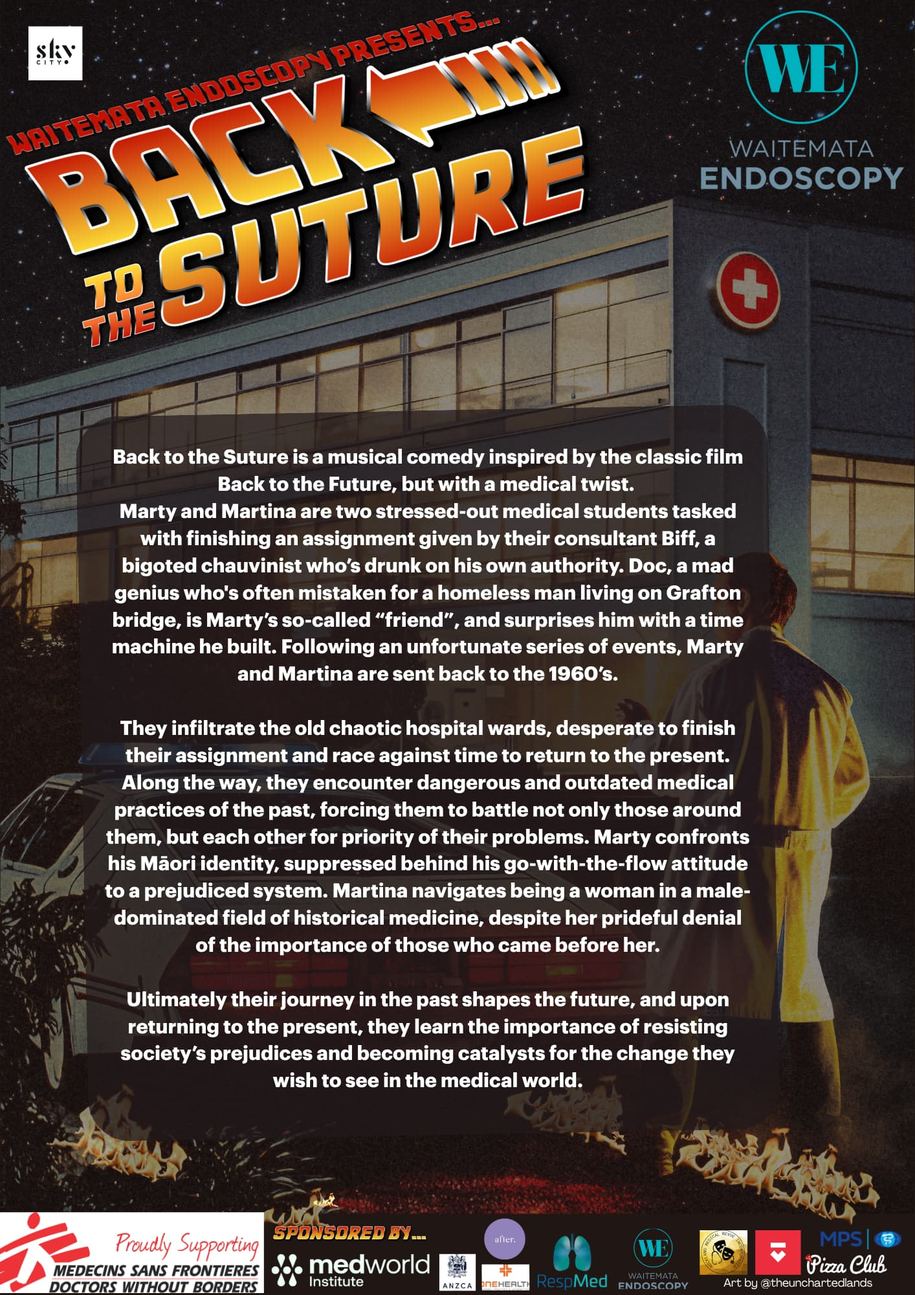
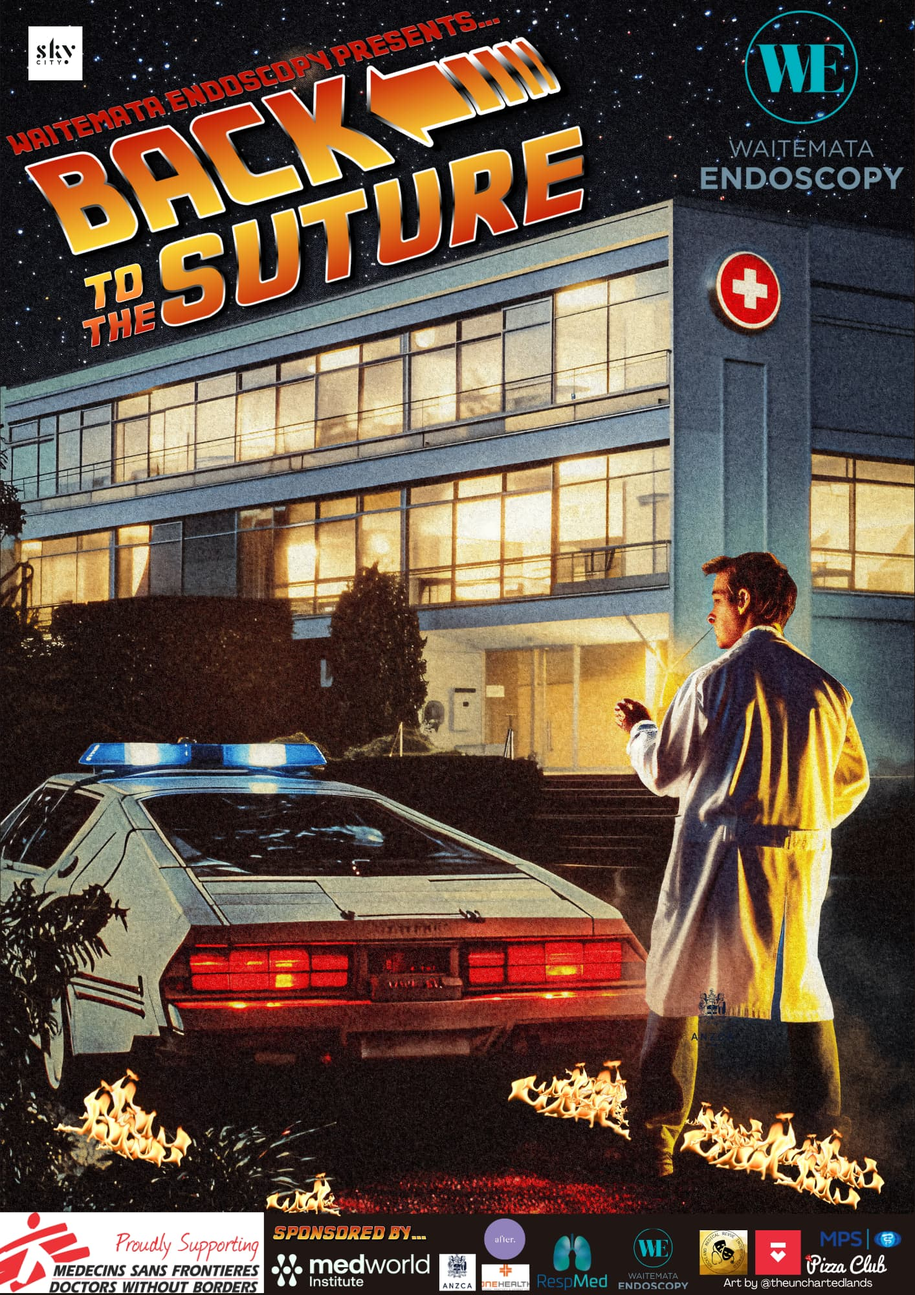
feat: update gallery with real show posters

diff --git a/packages/frontend/src/components/CardStack/CardStack.tsx b/packages/frontend/src/components/CardStack/CardStack.tsx
@@ -3,30 +3,38 @@ import { ScrollTrigger } from 'gsap/ScrollTrigger';
 import { useEffect, useRef } from 'react'; // Ensure it only runs after the DOM is created
 import PastShowCard, { type PastShowCardProps } from '../Cards/PastShowCard';
 
+import gallery2023_1 from '../../assets/gallery-2023-1.png';
+import gallery2023_2 from '../../assets/gallery-2023-2.png';
+import gallery2023_3 from '../../assets/gallery-2023-3.png';
+import gallery2024_1 from '../../assets/gallery-2024-1.png';
+import gallery2024_2 from '../../assets/gallery-2024-2.png';
+import gallery2024_3 from '../../assets/gallery-2024-3.png';
 import gallery2025_2 from '../../assets/medrevue-home-castBlue.png';
 import gallery2025_1 from '../../assets/medrevue-home-castPink.png';
-import poster2025 from '../../assets/medrevue-poster.jpg';
+import poster2023 from '../../assets/medrevue-poster-2023.png';
+import poster2024 from '../../assets/medrevue-poster-2024.png';
+import poster2025 from '../../assets/medrevue-poster-2025.jpg';
 
 gsap.registerPlugin(ScrollTrigger);
 
 const cards: PastShowCardProps[] = [
   {
-    year: '2024',
-    title: 'Grease',
+    year: '2025',
+    title: 'Back to the Suture',
     posterUrl: poster2025,
     galleryUrls: [gallery2025_1, gallery2025_2, 'placeholder3.png'],
   },
   {
-    year: '2023',
-    title: 'Wicked',
-    posterUrl: 'bye',
-    galleryUrls: ['placeholder1.png', 'placeholder2.png', 'placeholder3.png'],
+    year: '2024',
+    title: 'Mean Docs',
+    posterUrl: poster2024,
+    galleryUrls: [gallery2024_1, gallery2024_2, gallery2024_3],
   },
   {
-    year: '2022',
-    title: 'Hamilton',
-    posterUrl: 'goodnight',
-    galleryUrls: ['placeholder1.png', 'placeholder2.png', 'placeholder3.png'],
+    year: '2023',
+    title: 'Medtilda',
+    posterUrl: poster2023,
+    galleryUrls: [gallery2023_1, gallery2023_2, gallery2023_3],
   },
 ];
 

diff --git a/packages/frontend/src/components/Cards/PastShowCard/PastShowCard.tsx b/packages/frontend/src/components/Cards/PastShowCard/PastShowCard.tsx
@@ -13,7 +13,7 @@ export const PastShowCard: React.FC<PastShowCardProps> = ({
   posterUrl,
   galleryUrls,
 }) => {
-  const visibleImages = galleryUrls.slice(0, 2);
+  const visibleImages = galleryUrls.slice(0, 3);
 
   return (
     <div className="card absolute w-full md:max-w-[720px] lg:max-w-[1000px] xl:max-w-[1200px] mx-auto">
@@ -107,22 +107,6 @@ export const PastShowCard: React.FC<PastShowCardProps> = ({
                     />
                   </div>
                 ))}
-
-                {/* View more tile */}
-                <div
-                  className="rounded-lg flex-shrink-0 flex items-end justify-left cursor-pointer
-                     bg-text-grey border border-text-grey
-                     hover:bg-text-grey transition-colors duration-200
-                     w-20 h-20 md:w-28 md:h-28 lg:w-36 lg:h-36 xl:w-44 xl:h-44"
-                >
-                  <span className="m-2 lg:m-5 leading-tight text-[0.6rem] md:text-[0.7rem] lg:text-[0.9rem] text-background-secondary">
-                    <>
-                      View
-                      <br />
-                      more...
-                    </>
-                  </span>
-                </div>
               </div>
             </div>
           </div>

diff --git a/packages/frontend/src/App.tsx b/packages/frontend/src/App.tsx
@@ -7,7 +7,7 @@ import { ContactPage } from './pages/ContactUs';
 import HomePage from './pages/Home';
 import ReturnPolicyPage from './pages/ReturnPolicy';
 import { SponsorPage } from './pages/SponsorPage';
-import PastShowsPage from './pages/past_shows/PastShowsPage';
+import GalleryPage from './pages/gallery/GalleryPage';
 import Show2025 from './pages/show/2025show';
 
 const App: React.FC = () => {
@@ -32,15 +32,6 @@ const App: React.FC = () => {
               <Menu />
               {/* <LoadingComponent /> */}
               <Show2025 />
-            </>
-          }
-        />
-        <Route
-          path="gallery"
-          element={
-            <>
-              <Menu />
-              <h1>Gallery</h1>
             </>
           }
         />
@@ -72,11 +63,11 @@ const App: React.FC = () => {
           }
         />
         <Route
-          path="/past_shows"
+          path="/gallery"
           element={
             <>
               <Menu />
-              <PastShowsPage />
+              <GalleryPage />
             </>
           }
         />

diff --git a/packages/frontend/src/components/Menu/Menu.tsx b/packages/frontend/src/components/Menu/Menu.tsx
@@ -73,18 +73,11 @@ export const Menu: React.FC = () => {
         <Link to="/" className="menu-nav-link">
           Home
         </Link>
-        <Link to="/show" className="menu-nav-link">
-          2026 Show
+        <Link to="/gallery" className="menu-nav-link">
+          Gallery
         </Link>
         <Link to="/contact" className="menu-nav-link">
           Contact
-        </Link>
-        {/*link past shows page - test*/}
-        <Link
-          to="/past_shows"
-          className="font-inter text-xl font-bold leading-[36px] text-[#cccccc] no-underline transition-colors duration-300 hover:text-[#e5ce63]"
-        >
-          Past Shows
         </Link>
         <a
           href="https://donate.mentalhealth.org.nz"

diff --git a/packages/frontend/src/components/Home/HeroSection/HeroSection.tsx b/packages/frontend/src/components/Home/HeroSection/HeroSection.tsx
@@ -3,7 +3,7 @@ import { ScrollTrigger } from 'gsap/ScrollTrigger';
 import type React from 'react';
 import { useEffect, useRef } from 'react';
 import { useNavigate } from 'react-router';
-import medrevuePoster from '../../../assets/medrevue_poster.png';
+import medrevuePoster from '../../../assets/medrevue-poster-2026.png';
 import { Button } from '../../Button';
 
 gsap.registerPlugin(ScrollTrigger);

diff --git a/packages/frontend/src/pages/gallery/GalleryPage.tsx b/packages/frontend/src/pages/gallery/GalleryPage.tsx
@@ -1,4 +1,4 @@
-import poster from '../../assets/medrevue_poster.png';
+import poster from '../../assets/medrevue-poster-2026.png';
 import CardStack from '../../components/CardStack';
 import CurrentShowCard, {
   type CurrentShowCardProps,

diff --git a/packages/frontend/src/pages/show/2025show/index.tsx b/packages/frontend/src/pages/show/2025show/index.tsx
@@ -1,5 +1,5 @@
 import type React from 'react';
-import Show2025Poster from '../../../assets/medrevue-poster.png';
+import Show2025Poster from '../../../assets/medrevue-poster-2025.jpg';
 
 const Show2025: React.FC = () => (
   <>
